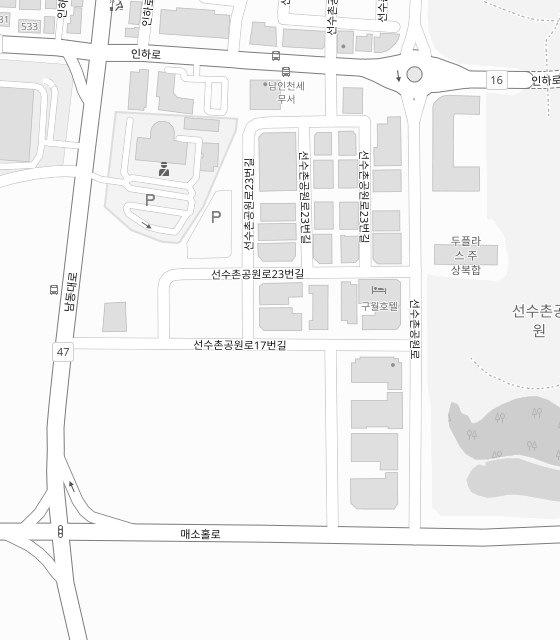
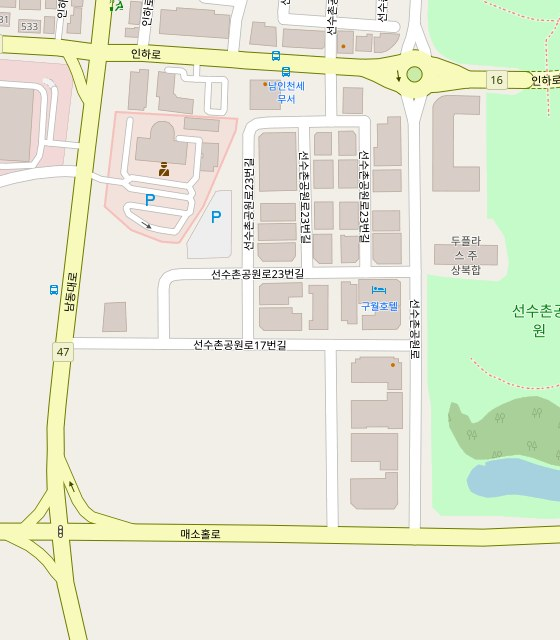
2차 수정: SINCE 표기 구분(INCHEON·EST.2023), 본사 실제 사진 2장, SCROLL 제거, 숫자 서체, 채널 공식 컬러 로고, 컬러 지도

diff --git a/index.html b/index.html
@@ -4,7 +4,7 @@
 <meta charset="utf-8">
 <meta name="viewport" content="width=device-width, initial-scale=1">
 <title>쥬드주얼리 인천점 | 청담 예물 명가 · 인천 결혼반지 · 웨딩밴드</title>
-<meta name="description" content="1989년 청담에서 시작한 쥬드주얼리 인천점. 자체공방 함채헌의 30년 이상 경력 장인이 만드는 1:1 오더메이드 웨딩밴드, 인천 구월동 두용프라자 205호. 네이버 예약과 프라이빗 상담을 안내합니다.">
+<meta name="description" content="1989년 청담에서 시작한 쥬드주얼리의 인천점. 2023년부터 인천 구월동에서 자체공방 함채헌의 30년 이상 경력 장인이 만드는 1:1 오더메이드 웨딩밴드. 네이버 예약과 프라이빗 상담을 안내합니다.">
 <meta name="robots" content="index, follow, max-image-preview:large">
 <link rel="canonical" href="https://jewde-incheon.vercel.app/">
 <meta name="theme-color" content="#ffffff">
@@ -14,15 +14,15 @@
 <meta property="og:site_name" content="쥬드주얼리 인천점">
 <meta property="og:locale" content="ko_KR">
 <meta property="og:title" content="쥬드주얼리 인천점 | 청담 예물 명가 · 인천 결혼반지 · 웨딩밴드">
-<meta property="og:description" content="1989년 청담에서 시작한 쥬드주얼리. 자체공방 함채헌의 장인이 만드는 1:1 오더메이드 웨딩밴드를 인천 구월동에서 만나보세요.">
+<meta property="og:description" content="1989년 청담에서 시작한 쥬드주얼리의 철학을, 2023년부터 인천에서 이어갑니다. 자체공방 함채헌의 장인이 만드는 1:1 오더메이드 웨딩밴드를 인천 구월동에서 만나보세요.">
 <meta property="og:url" content="https://jewde-incheon.vercel.app/">
 <meta property="og:image" content="https://jewde-incheon.vercel.app/assets/og-image.png">
 <meta property="og:image:width" content="1200">
 <meta property="og:image:height" content="630">
-<meta property="og:image:alt" content="JEWDE SINCE 1989 — 소중한 기억에 가치를 더하다, 쥬드주얼리 인천점">
+<meta property="og:image:alt" content="JEWDE — 소중한 기억에 가치를 더하다, 쥬드주얼리 인천점">
 <meta name="twitter:card" content="summary_large_image">
 <meta name="twitter:title" content="쥬드주얼리 인천점 | 청담 예물 명가 · 인천 결혼반지 · 웨딩밴드">
-<meta name="twitter:description" content="자체공방 함채헌의 장인이 만드는 1:1 오더메이드 웨딩밴드. 인천 구월동 쥬드주얼리 인천점.">
+<meta name="twitter:description" content="1989년 청담에서 시작한 쥬드의 철학을 2023년부터 인천에서. 자체공방 함채헌의 장인이 만드는 1:1 오더메이드 웨딩밴드.">
 <meta name="twitter:image" content="https://jewde-incheon.vercel.app/assets/og-image.png">
 
 <link rel="icon" href="/assets/favicon.svg" type="image/svg+xml">
@@ -47,8 +47,9 @@
       "url": "https://jewde-incheon.vercel.app/",
       "image": "https://jewde-incheon.vercel.app/assets/og-image.png",
       "logo": "https://jewde-incheon.vercel.app/assets/favicon.svg",
-      "description": "1989년 청담에서 시작한 쥬드주얼리의 인천점. 자체공방 함채헌의 30년 이상 경력 장인이 만드는 1:1 오더메이드 웨딩밴드와 예물 상담.",
+      "description": "1989년 청담에서 시작한 쥬드주얼리의 철학을 2023년부터 인천에서 이어가는 인천점. 자체공방 함채헌의 30년 이상 경력 장인이 만드는 1:1 오더메이드 웨딩밴드와 예물 상담.",
       "slogan": "Add Value To One's Precious Memory",
+      "foundingDate": "2023",
       "telephone": "+82-32-441-1236",
       "priceRange": "₩₩",
       "currenciesAccepted": "KRW",
@@ -155,7 +156,7 @@
   <div class="header-inner">
     <a class="brand" href="#top" aria-label="쥬드주얼리 인천점 홈">
       <span class="brand-mark">JEWDE</span>
-      <span class="brand-sub">SINCE 1989 · INCHEON</span>
+      <span class="brand-sub">INCHEON · EST. 2023</span>
     </a>
 
     <nav class="nav" id="nav" aria-label="주요 메뉴">
@@ -213,10 +214,6 @@
       </div>
     </div>
 
-    <div class="scroll-cue" aria-hidden="true">
-      <span>SCROLL</span>
-      <i></i>
-    </div>
   </section>
 
   <!-- 01 ABOUT -->
@@ -233,6 +230,10 @@
             쥬드(JEWDE)는 <em>보석</em>과 <em>꿈꾸는 자</em>의 마음을 합쳐
             1989년 청담에서 태어난 이름입니다.
           </p>
+          <p class="about-heritage">
+            1989년 청담에서 시작된 쥬드의 철학을,<br class="pc">
+            2023년부터 인천에서 이어가고 있습니다.
+          </p>
           <p>
             결혼을 앞둔 두 사람의 가장 빛나는 순간에, 평생 간직할 반지를
             조용하고 정갈하게 건네고자 했던 마음이 지금까지 이어지고 있습니다.
@@ -241,29 +242,10 @@
         </div>
 
         <div class="about-body">
-          <div class="about-figure" aria-hidden="true">
-            <svg viewBox="0 0 360 380" fill="none" xmlns="http://www.w3.org/2000/svg">
-              <circle cx="180" cy="188" r="146" stroke="currentColor" stroke-width="0.5" opacity="0.45"/>
-              <circle cx="180" cy="188" r="128" stroke="currentColor" stroke-width="0.4" opacity="0.3"/>
-
-              <!-- 두 개의 웨딩밴드 -->
-              <circle cx="146" cy="198" r="62" stroke="currentColor" stroke-width="1.1"/>
-              <circle cx="146" cy="198" r="55" stroke="currentColor" stroke-width="0.5" opacity="0.75"/>
-              <circle cx="215" cy="184" r="56" stroke="currentColor" stroke-width="1.1"/>
-              <circle cx="215" cy="184" r="49" stroke="currentColor" stroke-width="0.5" opacity="0.75"/>
-
-              <!-- 스톤 -->
-              <path d="M215 110l13 19-13 12-13-12z" stroke="currentColor" stroke-width="1"/>
-              <path d="M215 110v31M202 129h26" stroke="currentColor" stroke-width="0.5" opacity="0.7"/>
-
-              <!-- 광택 -->
-              <path d="M100 170c8-14 20-24 34-28" stroke="currentColor" stroke-width="0.7" opacity="0.6"/>
-              <path d="M172 152c7-11 17-19 29-22" stroke="currentColor" stroke-width="0.7" opacity="0.6"/>
-
-              <path d="M40 188h56M264 188h56" stroke="currentColor" stroke-width="0.3" opacity="0.4"/>
-              <text x="180" y="336" text-anchor="middle" class="fig-text">JEWDE · 1989</text>
-            </svg>
-          </div>
+          <figure class="about-figure">
+            <img src="assets/ring-sketch.jpg" alt="쥬드 함채헌 공방에서 그린 웨딩밴드 디자인 연필 스케치" width="1200" height="900" loading="lazy">
+            <figcaption><span>ATELIER HAMCHAEHUN</span> 웨딩밴드 디자인 스케치</figcaption>
+          </figure>
 
           <ul class="facts">
             <li>
@@ -300,6 +282,11 @@
         <p class="section-no">02 — ATELIER HAMCHAEHUN</p>
         <h2 class="section-title">자체공방<br>함채헌</h2>
       </div>
+
+      <figure class="atelier-figure">
+        <img src="assets/atelier-hamchaehun.jpg" alt="자체공방 함채헌에서 웨딩밴드를 세공하는 쥬드 장인" width="1600" height="900" loading="lazy">
+        <figcaption><span>ATELIER HAMCHAEHUN</span> 쥬드 청담 본사 자체공방</figcaption>
+      </figure>
 
       <div class="atelier-grid">
         <div class="atelier-copy">
@@ -418,7 +405,7 @@
       <div class="channel-grid">
         <a class="channel-card channel-card--wide" href="https://booking.naver.com/booking/6/bizes/1389525" target="_blank" rel="noopener">
           <span class="channel-icon" aria-hidden="true">
-            <svg viewBox="0 0 40 40" fill="none"><rect x="6" y="9" width="28" height="24" rx="1.5" stroke="currentColor" stroke-width="1"/><path d="M6 16h28M13 6v6M27 6v6" stroke="currentColor" stroke-width="1"/><path d="M13 22h5M13 27h9" stroke="currentColor" stroke-width="1"/></svg>
+            <svg viewBox="0 0 40 40" role="img" aria-label="네이버"><rect x="1" y="1" width="38" height="38" rx="9" fill="#03C75A"/><path d="M12.6 10.8h5.5l6.3 9.2v-9.2h3v18.4h-5.5l-6.3-9.2v9.2h-3z" fill="#fff"/></svg>
           </span>
           <span class="channel-body">
             <span class="channel-label">네이버 예약</span>
@@ -429,7 +416,7 @@
 
         <a class="channel-card" href="https://blog.naver.com/jewde-jewelry-inch" target="_blank" rel="noopener">
           <span class="channel-icon" aria-hidden="true">
-            <svg viewBox="0 0 40 40" fill="none"><path d="M8 8h20l4 4v20H8z" stroke="currentColor" stroke-width="1"/><path d="M14 15h12M14 20h12M14 25h8" stroke="currentColor" stroke-width="1"/></svg>
+            <svg viewBox="0 0 40 40" role="img" aria-label="네이버 블로그"><rect x="1" y="1" width="38" height="38" rx="9" fill="#03C75A"/><text x="20" y="24.6" text-anchor="middle" font-family="Helvetica Neue, Helvetica, Arial, sans-serif" font-size="12.5" font-weight="700" letter-spacing="-0.3" fill="#fff">blog</text></svg>
           </span>
           <span class="channel-body">
             <span class="channel-label">공식 블로그</span>
@@ -440,7 +427,7 @@
 
         <a class="channel-card" href="https://www.instagram.com/jewdeincheon/" target="_blank" rel="noopener">
           <span class="channel-icon" aria-hidden="true">
-            <svg viewBox="0 0 40 40" fill="none"><rect x="7" y="7" width="26" height="26" rx="7" stroke="currentColor" stroke-width="1"/><circle cx="20" cy="20" r="7" stroke="currentColor" stroke-width="1"/><circle cx="28" cy="12" r="1.4" fill="currentColor"/></svg>
+            <svg viewBox="0 0 40 40" role="img" aria-label="인스타그램"><defs><radialGradient id="igGrad" cx="24%" cy="108%" r="128%"><stop offset="0" stop-color="#FEDA75"/><stop offset="0.22" stop-color="#FA7E1E"/><stop offset="0.5" stop-color="#D62976"/><stop offset="0.8" stop-color="#962FBF"/><stop offset="1" stop-color="#4F5BD5"/></radialGradient></defs><rect x="1" y="1" width="38" height="38" rx="11" fill="url(#igGrad)"/><rect x="9.2" y="9.2" width="21.6" height="21.6" rx="6.4" fill="none" stroke="#fff" stroke-width="2.1"/><circle cx="20" cy="20" r="5.4" fill="none" stroke="#fff" stroke-width="2.1"/><circle cx="27.5" cy="12.6" r="1.5" fill="#fff"/></svg>
           </span>
           <span class="channel-body">
             <span class="channel-label">인스타그램</span>
@@ -451,7 +438,7 @@
 
         <button class="channel-card channel-card--wide channel-card--kakao" type="button" id="kakaoBtn" aria-haspopup="dialog">
           <span class="channel-icon" aria-hidden="true">
-            <svg viewBox="0 0 40 40" fill="none"><path d="M20 8c7.2 0 13 4.5 13 10 0 3.5-2.3 6.6-5.8 8.4l1.4 5-5.6-3.2c-1 .2-2 .3-3 .3-7.2 0-13-4.5-13-10.5S12.8 8 20 8z" stroke="currentColor" stroke-width="1"/></svg>
+            <svg viewBox="0 0 40 40" role="img" aria-label="카카오톡"><rect x="1" y="1" width="38" height="38" rx="9" fill="#FEE500"/><path d="M20 10.5c-5.6 0-10.1 3.5-10.1 7.9 0 2.8 1.9 5.3 4.7 6.7l-1.2 4.3c-.1.4.3.7.7.5l4.9-3.2c.3 0 .7.1 1 .1 5.6 0 10.1-3.5 10.1-7.9S25.6 10.5 20 10.5z" fill="#3C1E1E"/></svg>
           </span>
           <span class="channel-body">
             <span class="channel-label">카카오톡 상담</span>
@@ -588,7 +575,7 @@
     <div class="footer-brand">
       <p class="footer-logo">JEWDE</p>
       <p class="footer-slogan">Add Value To One’s Precious Memory</p>
-      <p class="footer-since">SINCE 1989 · INCHEON</p>
+      <p class="footer-since">INCHEON · EST. 2023</p>
     </div>
 
     <div class="footer-info">

diff --git a/styles.css b/styles.css
@@ -330,33 +330,6 @@ ul { padding: 0; list-style: none; }
 .btn-arrow { width: 15px; height: 15px; transition: transform .3s var(--ease); }
 .btn:hover .btn-arrow { transform: translateX(3px); }
 
-.scroll-cue {
-  position: absolute;
-  left: 50%;
-  bottom: 34px;
-  transform: translateX(-50%);
-  display: flex;
-  flex-direction: column;
-  align-items: center;
-  gap: 12px;
-}
-.scroll-cue span {
-  font-size: 8px;
-  letter-spacing: .36em;
-  color: var(--muted);
-  padding-left: .36em;
-}
-.scroll-cue i {
-  width: 1px;
-  height: 46px;
-  background: linear-gradient(to bottom, #c9ced2, transparent);
-  animation: cue 2.6s ease-in-out infinite;
-}
-@keyframes cue {
-  0%, 100% { transform: scaleY(.35); transform-origin: top; opacity: .4; }
-  50% { transform: scaleY(1); transform-origin: top; opacity: 1; }
-}
-
 /* =========================================================
    Section base
    ========================================================= */
@@ -438,16 +411,43 @@ ul { padding: 0; list-style: none; }
 }
 .about-lead .lead { margin-bottom: 30px; }
 
-.about-figure {
-  color: #7f878d;
-  max-width: 320px;
-  margin: 0 auto clamp(34px, 5vw, 52px);
+.about-heritage {
+  font-family: var(--serif);
+  font-size: clamp(16px, 1.75vw, 19px) !important;
+  line-height: 1.85 !important;
+  letter-spacing: .005em;
+  color: var(--ink) !important;
+  border-left: 1px solid var(--silver);
+  padding-left: 20px;
+  max-width: 40ch !important;
 }
-.fig-text {
+
+.about-figure {
+  margin: 0 0 clamp(34px, 4vw, 48px);
+}
+.about-figure img {
+  width: 100%;
+  height: auto;
+  aspect-ratio: 4 / 3;
+  object-fit: cover;
+  object-position: 52% 50%;
+  background: #eceef0;
+}
+.about-figure figcaption {
+  display: flex;
+  flex-wrap: wrap;
+  align-items: baseline;
+  gap: 10px;
+  margin-top: 14px;
+  font-size: 11px;
+  letter-spacing: .02em;
+  color: var(--muted);
+}
+.about-figure figcaption span {
   font-family: var(--display);
-  font-size: 10px;
-  letter-spacing: .34em;
-  fill: #8a9197;
+  font-size: 11px;
+  letter-spacing: .26em;
+  color: #6c7378;
 }
 
 .facts {
@@ -464,14 +464,23 @@ ul { padding: 0; list-style: none; }
 
 .fact-num {
   display: block;
-  font-family: var(--display);
+  font-family: var(--serif);
   font-size: clamp(28px, 3.4vw, 40px);
   font-weight: 300;
   line-height: 1;
-  letter-spacing: .02em;
+  letter-spacing: .01em;
+  font-variant-numeric: lining-nums tabular-nums;
   color: var(--ink);
 }
-.fact-num sup { font-size: .42em; letter-spacing: .06em; vertical-align: super; margin-left: 2px; color: var(--muted); }
+.fact-num sup {
+  font-family: var(--sans);
+  font-size: .4em;
+  font-weight: 400;
+  letter-spacing: .02em;
+  vertical-align: super;
+  margin-left: 3px;
+  color: var(--muted);
+}
 .fact-label {
   display: block;
   margin-top: 12px;
@@ -500,6 +509,35 @@ ul { padding: 0; list-style: none; }
 .atelier .section-head { position: relative; }
 .atelier .section-no { color: #7d8388; }
 .atelier .section-title { color: #f4f5f6; }
+
+.atelier-figure {
+  position: relative;
+  margin: 0 0 clamp(40px, 5vw, 64px);
+}
+.atelier-figure img {
+  width: 100%;
+  height: auto;
+  aspect-ratio: 16 / 9;
+  object-fit: cover;
+  object-position: 50% 42%;
+  background: #26292c;
+}
+.atelier-figure figcaption {
+  display: flex;
+  flex-wrap: wrap;
+  align-items: baseline;
+  gap: 10px;
+  margin-top: 14px;
+  font-size: 11px;
+  letter-spacing: .02em;
+  color: #8b9095;
+}
+.atelier-figure figcaption span {
+  font-family: var(--display);
+  font-size: 11px;
+  letter-spacing: .26em;
+  color: #c3c7ca;
+}
 
 .atelier-grid {
   position: relative;
@@ -766,7 +804,6 @@ ul { padding: 0; list-style: none; }
   height: 100%;
   object-fit: cover;
   display: block;
-  filter: contrast(.98) brightness(1.01);
 }
 
 .map-pin {
@@ -784,16 +821,19 @@ ul { padding: 0; list-style: none; }
   content: "";
   position: absolute;
   inset: 0;
-  border: 1px solid rgba(27, 28, 30, .45);
+  border: 1px solid rgba(27, 28, 30, .16);
   border-radius: 50%;
+  background: rgba(255, 255, 255, .88);
+  box-shadow: 0 3px 14px rgba(27, 28, 30, .22);
 }
 .map-pin i {
-  width: 12px;
-  height: 12px;
+  position: relative;
+  width: 16px;
+  height: 16px;
   background: var(--ink);
-  border: 2px solid #fff;
+  border: 3px solid #fff;
   border-radius: 50%;
-  box-shadow: 0 0 0 1px var(--ink);
+  box-shadow: 0 1px 5px rgba(27, 28, 30, .35);
 }
 
 .map-label {
@@ -1037,7 +1077,6 @@ ul { padding: 0; list-style: none; }
 @media (prefers-reduced-motion: reduce) {
   html { scroll-behavior: auto; }
   .reveal { opacity: 1; transform: none; transition: none; }
-  .scroll-cue i { animation: none; }
   *, *::before, *::after { animation-duration: .001ms !important; transition-duration: .001ms !important; }
 }
 
@@ -1140,8 +1179,6 @@ ul { padding: 0; list-style: none; }
 @media (max-width: 600px) {
   .hero { padding-top: calc(var(--header-h) + 28px); padding-bottom: 96px; }
   .hero-rings { width: 112vw; opacity: .38; }
-  .scroll-cue { bottom: 78px; }
-  .scroll-cue i { height: 34px; }
   .hero-lines::before { left: 8%; }
   .hero-lines::after { right: 8%; }
   .hero-en { font-size: clamp(34px, 10vw, 44px); letter-spacing: .02em; line-height: 1.25; }

diff --git a/assets/og.html b/assets/og.html
@@ -42,7 +42,7 @@
   </svg>
   <div class="center">
     <div class="logo">JEWDE</div>
-    <div class="since">SINCE 1989 · INCHEON</div>
+    <div class="since">INCHEON · EST. 2023</div>
     <div class="rule"></div>
     <div class="en">Add Value To<br>One’s Precious Memory</div>
     <div class="ko">소중한 기억에 가치를 더하다</div>

diff --git a/README.md b/README.md
@@ -10,7 +10,9 @@ https://jewde-incheon.vercel.app
 | `index.html` | 페이지 전체(문구·섹션·구조화 데이터 JSON-LD) |
 | `styles.css` | 색·서체·여백·반응형 (`:root` 변수) |
 | `script.js` | 헤더·모바일 메뉴·스크롤 효과·FAQ·카카오 안내 모달 |
-| `assets/map.jpg` | 매장 주변 약도 (OpenStreetMap 타일, 2026-11 생성) |
+| `assets/map.jpg` | 매장 주변 약도 — 컬러 OpenStreetMap 타일 (2026-11 생성) |
+| `assets/ring-sketch.jpg` | About 섹션 반지 디자인 연필 스케치 (본사 `jewde.com` 촬영본, 모노톤 보정) |
+| `assets/atelier-hamchaehun.jpg` | 함채헌 섹션 자체공방 장인 사진 (본사 `jewde.com` 공방4) |
 | `assets/og-image.png` | 카카오톡·SNS 공유 썸네일 (1200×630) |
 | `robots.txt`, `sitemap.xml` | 검색엔진 수집 설정 |
 
@@ -45,3 +47,5 @@ git push
 
 - 본사(`jewde.com`)의 대표자·사업자 정보는 이 페이지에 넣지 않습니다. 인천점 정보만 표기합니다.
 - 함채헌 공방 경력은 **30년 이상**으로만 표기합니다.
+- 사진 2장(`ring-sketch.jpg`, `atelier-hamchaehun.jpg`)은 본사 `jewde.com`의 쥬드 촬영본을 내려받아 사이트 안에 함께 올린 파일입니다(외부 핫링크 아님). 사진을 바꿀 때도 같은 방식으로 `assets/`에 넣어 주세요.
+- `SINCE 1989`는 본사(1989년 청담)의 연혜이고, 인천점은 **2023년** 개점입니다. 헤더·푸터 표기는 `INCHEON · EST. 2023`을 유지합니다.
